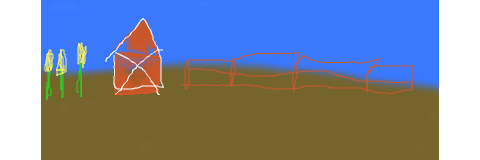
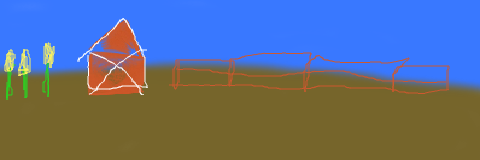
background is city now and new farm upload

Changed region(s): [[0.0, 0.0, 1.0, 1.0], [0.8438, 0.3438, 0.875, 0.375]]

diff --git a/src/scenery.py b/src/scenery.py
@@ -9,7 +9,7 @@ _FORE_Y_POS = con.SCR_HEIGHT - 30 # Where the foreground will be drawn.
 
 class Scenery(object):
 	def __init__(self):
-		self.bkgdImg  = graphics.load_image(os.path.join("img", "wood_bkgd.png"))
+		self.bkgdImg  = graphics.load_image(os.path.join("img", "city.png"))
 		self.foreImg  = graphics.load_image(os.path.join("img", "grass_fore.png"))
 
 		self.bkgd_W = self.bkgdImg.get_width()

diff --git a/src/person.py b/src/person.py
@@ -43,7 +43,7 @@ class Action(object):
 	JUMP = 1
 	DUCK = 2
 	DIE  = 3
-	
+
 class Person(object):
 	FRAMES = [(x * _SPR_DIM, y * _SPR_DIM, _SPR_DIM, _SPR_DIM) for y in xrange(_SPR_ROWS) for x in xrange(_SPR_COLS)]
 
